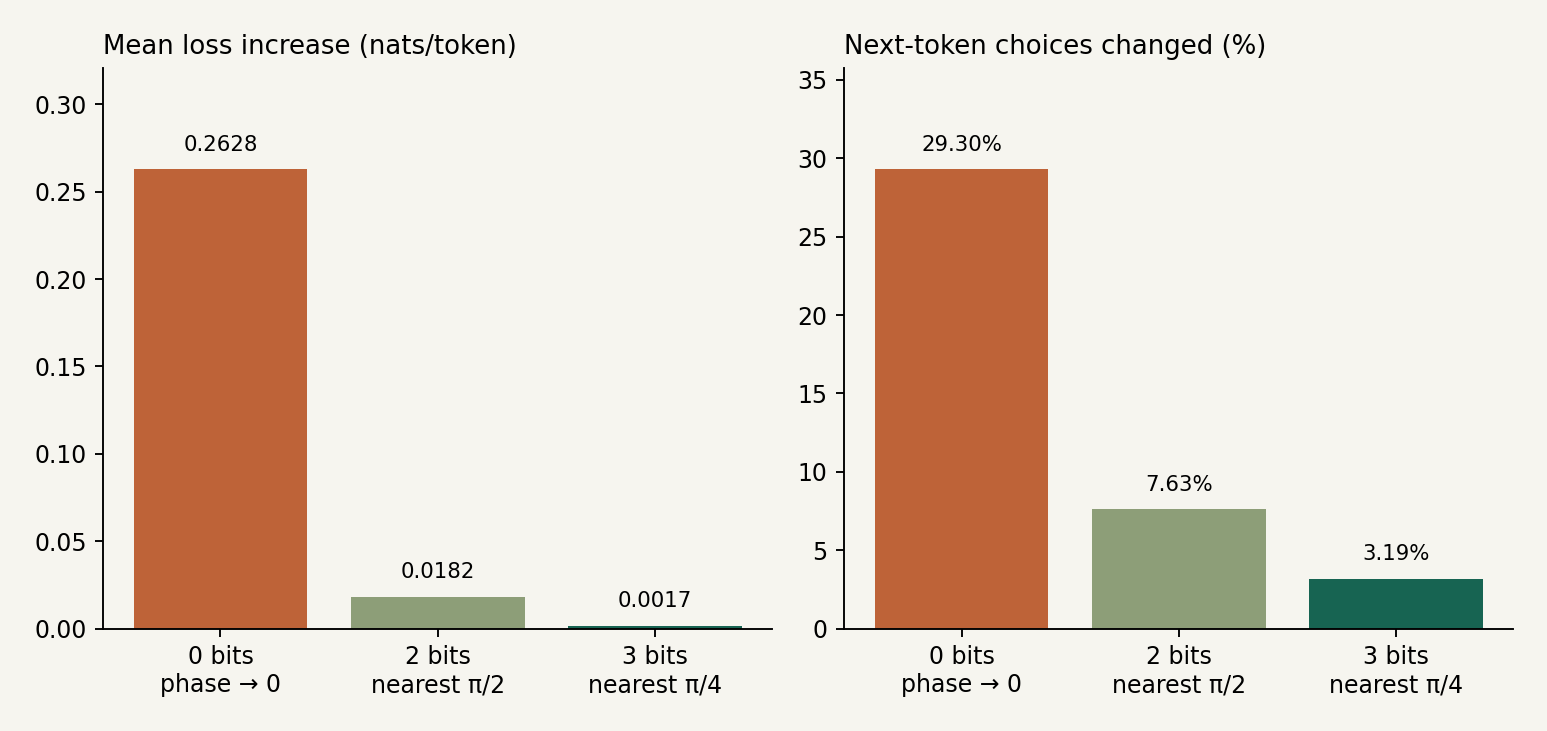
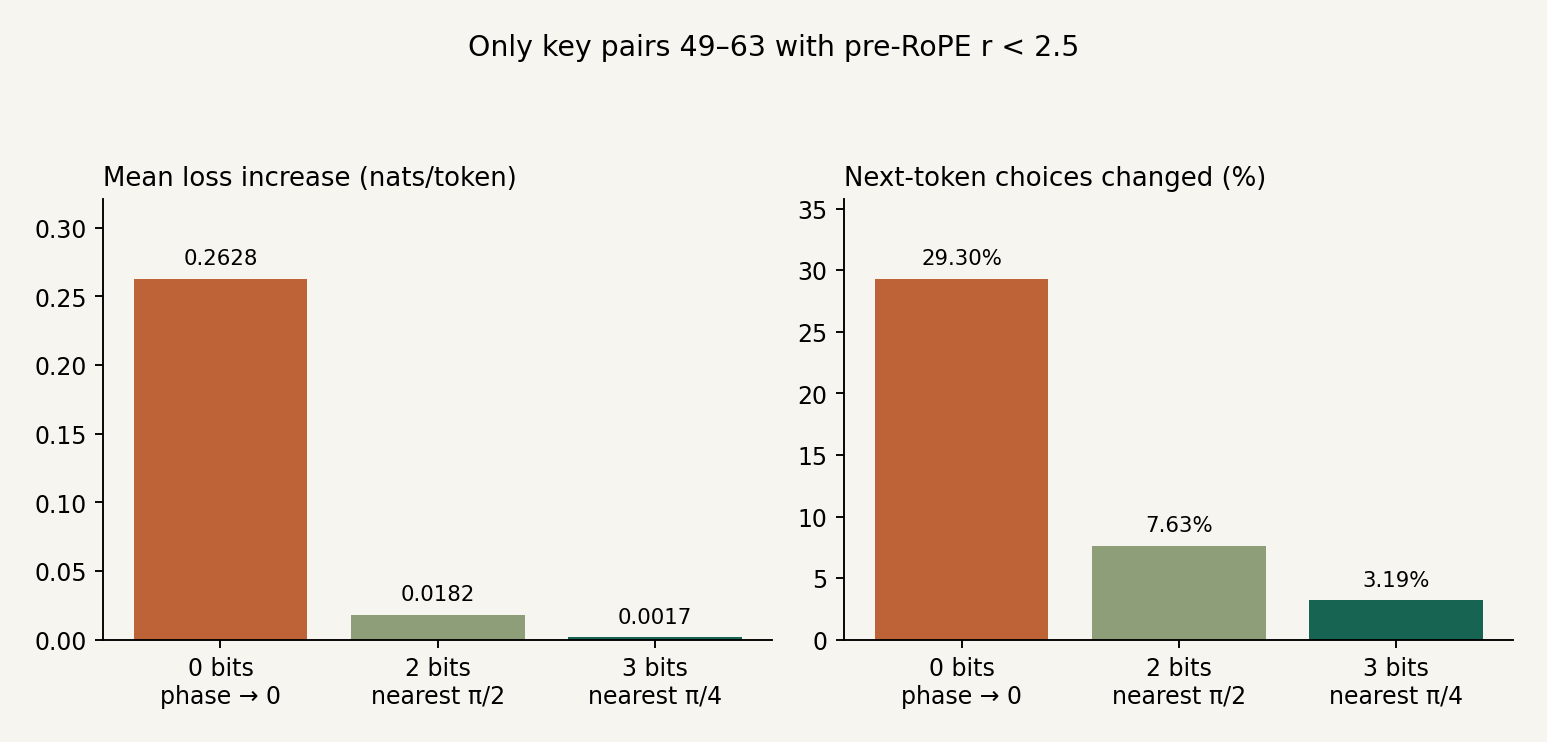
Explain cloud input dependence and emphasize small slow-pair quantization scope

diff --git a/index.html b/index.html
@@ -191,19 +191,19 @@ Return the label for red round.</code></pre>
     <div class="equation"><span class="katex"><math xmlns="http://www.w3.org/1998/Math/MathML" display="block"><semantics><mrow><mi>q</mi><mo stretchy="false">(</mo><mi>h</mi><mo stretchy="false">)</mo><mo>=</mo><msub><mi>W</mi><mi>Q</mi></msub><mi>h</mi><mo>+</mo><msub><mi>b</mi><mi>Q</mi></msub><mo separator="true">,</mo><mspace width="2em"/><msub><mi>q</mi><mi>j</mi></msub><mo stretchy="false">(</mo><mi>h</mi><mo stretchy="false">)</mo><mo>=</mo><msub><mi>u</mi><mi>j</mi></msub><mo stretchy="false">(</mo><mi>h</mi><mo stretchy="false">)</mo><mo>+</mo><msub><mi>b</mi><mrow><mi>Q</mi><mo separator="true">,</mo><mi>j</mi></mrow></msub></mrow><annotation encoding="application/x-tex">q(h)=W_Qh+b_Q,\qquad q_j(h)=u_j(h)+b_{Q,j}</annotation></semantics></math></span></div>
     <p>Here <var>h</var> is the hidden state entering the projection, and <var>j</var> selects one coordinate pair. The bias <var>b</var><sub>Q,j</sub> is the same for every input. If it dominates <var>u</var><sub>j</sub>(<var>h</var>), the observations form a small cloud near that fixed offset. The equivalent key formula uses <var>W</var><sub>K</sub> and <var>b</var><sub>K</sub>.</p>
     <figure><img src="figures/analysis/bias-clouds.png" width="1700" height="850" loading="lazy" alt="A query cloud in L13 H4 pair 52 lies near its learned bias, while L15 H7 pair 63 has a large input-dependent spread and is not explained by its bias alone."><figcaption>Green points are the 768 saved query observations for one pair; orange crosses are the actual learned projection biases. Left: a strongly bias-dominated cloud. Right: a counterexample showing why large r alone does not establish input independence. Both panels preserve equal x/y scales.</figcaption></figure>
-    <p>So I would call the bias <em>input-independent</em>, rather than the whole cloud. The input-dependent term is still there. Even a stable cloud’s center can include the average projected hidden state:</p>
+    <p>The large-offset clouds have different degrees of input dependence. Compact, roughly round clouds tend to vary little around a stable offset; they look largely input-independent on these samples. Stretched clouds show stronger input-dependent variation along a preferred direction, as in the right-hand example. The useful clue is the spread relative to the offset, as well as the shape: roundness alone does not establish input independence. Even a stable cloud’s center can include the average projected hidden state:</p>
     <div class="equation"><span class="katex"><math xmlns="http://www.w3.org/1998/Math/MathML" display="block"><semantics><mrow><mi mathvariant="double-struck">E</mi><mo stretchy="false">[</mo><msub><mi>q</mi><mi>j</mi></msub><mo stretchy="false">]</mo><mo>=</mo><msub><mi>W</mi><mrow><mi>Q</mi><mo separator="true">,</mo><mi>j</mi></mrow></msub><mi mathvariant="double-struck">E</mi><mo stretchy="false">[</mo><mi>h</mi><mo stretchy="false">]</mo><mo>+</mo><msub><mi>b</mi><mrow><mi>Q</mi><mo separator="true">,</mo><mi>j</mi></mrow></msub></mrow><annotation encoding="application/x-tex">\mathbb{E}[q_j]=W_{Q,j}\mathbb{E}[h]+b_{Q,j}</annotation></semantics></math></span></div>
     <details><summary>What did the held-out bias check establish?</summary><p>For query pairs whose mean radius exceeded 5 on eight discovery excerpts, the bias-only predictor accounted for 72.5% of squared magnitude on eight other excerpts, relative to predicting zero. A fitted constant vector accounted for 83.0%. For large-mean key pairs, the bias-only result was 99.86%. These are energy-relative prediction fits, not variance explained around a mean. They support a substantial constant component, especially in the keys; they do not make every large query pair constant. <a href="data/analysis/observations-summary.json">Recomputed statistics</a> · <a href="data/analysis/original-static-summary.json">Original experiment summary</a>.</p></details>
 
     <h2 id="quantization">From a pattern to a quantization experiment</h2>
-    <p>The pictures suggested rounding directions, so I changed the actual key-pair phases and ran the model again. I kept the radii at full precision. The question was whether the model’s predictions survived—not merely whether the rounded cloud looked similar.</p>
+    <p>The pictures suggested rounding directions, so I tested a specific subset: <strong>low-frequency key pairs 49–63, and only token activations whose current pre-RoPE radius was r &lt; 2.5</strong>. These are zero-based pair indices, fifteen of the head’s 64 pairs. All results shown below—including the zero-bit result—use this same band and magnitude rule. I changed the selected phases, kept their radii at full precision, and ran the model again to see whether its predictions survived.</p>
     <p>For a uniform angular codebook with <var>b</var> bits, the rounding rule is:</p>
     <div class="equation"><span class="katex"><math xmlns="http://www.w3.org/1998/Math/MathML" display="block"><semantics><mrow><mover accent="true"><mi>ϕ</mi><mo stretchy="true">^</mo></mover><mo>=</mo><msub><mi mathvariant="normal">Δ</mi><mi>b</mi></msub><mtext> </mtext><mi mathvariant="normal">round</mi><mo></mo><mtext> </mtext><mrow><mo fence="true">(</mo><mfrac><mi>ϕ</mi><msub><mi mathvariant="normal">Δ</mi><mi>b</mi></msub></mfrac><mo fence="true">)</mo></mrow><mo separator="true">,</mo><mspace width="2em"/><msub><mi mathvariant="normal">Δ</mi><mi>b</mi></msub><mo>=</mo><mfrac><mrow><mn>2</mn><mi>π</mi></mrow><msup><mn>2</mn><mi>b</mi></msup></mfrac></mrow><annotation encoding="application/x-tex">\widehat\phi=\Delta_b\,\operatorname{round}\!\left(\frac{\phi}{\Delta_b}\right),\qquad \Delta_b=\frac{2\pi}{2^b}</annotation></semantics></math></span></div>
-    <p>The zero-bit condition is different: every selected phase becomes 0, so the pair becomes (<var>r</var>, 0). That preserves its length; it does not delete the pair.</p>
-    <p>The recorded experiment changed <strong>slow key pairs 49–63 when their current pre-RoPE radius was below 2.5</strong>, through all 28 layers and both shared key heads. Later activations were recomputed. The evaluation covered 7,168 next-token predictions from four previously used book excerpts, each with 2,062 input tokens.</p>
-    <div class="table-scroll"><table><thead><tr><th>Selected phase coding</th><th>Loss increase<br>(nats/token)</th><th>Next-token choices changed</th></tr></thead><tbody><tr><td>0 bits: phase → 0</td><td>+0.26280</td><td>29.30%</td></tr><tr><td>2 bits: nearest π/2</td><td>+0.01824</td><td>7.63%</td></tr><tr><td>3 bits: nearest π/4</td><td>+0.00170</td><td>3.19%</td></tr></tbody></table></div>
-    <figure><img src="figures/analysis/phase-rounding.png" width="1530" height="714" loading="lazy" alt="Recorded phase-rounding results: collapsing small slow key phases to zero changes predictions much more than rounding to four or eight directions."><figcaption>Redrawn from the original counterfactual results, not a new model run. “Changed” means different from the baseline, not necessarily incorrect. Conditions selected about 52–54% of the slow-pair instances; downstream changes affect which later pairs meet the radius threshold.</figcaption></figure>
-    <p>The distinction mattered. Three-bit rounding had a small average loss effect on these excerpts; collapsing every selected direction to one angle did not. The phases could be stored coarsely in this setting, but they were not simply unused. Protecting the first 14 keys gave a similar three-bit result: +0.00124 nats/token and 3.08% changed choices.</p>
+    <p>In the <strong>zero-bit test of those small, low-frequency key activations</strong>, I set the selected phase to 0: (<var>x</var>, <var>y</var>) becomes (<var>r</var>, 0). Pairs outside 49–63 and activations with r ≥ 2.5 were untouched by this edit. The selected pair’s length is preserved, and the normal positional RoPE rotation still follows.</p>
+    <p>I applied this selection through all 28 layers and both shared key heads, at all token positions. The magnitude threshold was applied to the actual key activation, not to the learned bias alone. Later activations were recomputed. The evaluation covered 7,168 next-token predictions from four previously used book excerpts, each with 2,062 input tokens.</p>
+    <div class="table-scroll"><table><caption>Only key pairs 49–63 with current pre-RoPE r &lt; 2.5</caption><thead><tr><th>Selected phase coding</th><th>Loss increase<br>(nats/token)</th><th>Next-token choices changed</th></tr></thead><tbody><tr><td>0 bits: selected phase → 0</td><td>+0.26280</td><td>29.30%</td></tr><tr><td>2 bits: nearest π/2</td><td>+0.01824</td><td>7.63%</td></tr><tr><td>3 bits: nearest π/4</td><td>+0.00170</td><td>3.19%</td></tr></tbody></table></div>
+    <figure><img src="figures/analysis/phase-rounding.png?v=scoped-small-slow-1" width="1530" height="714" loading="lazy" alt="Only key pairs 49–63 with current pre-RoPE radius below 2.5: zero-bit phase coding increases loss by 0.26280 nats per token and changes 29.30 percent of predictions; two- and three-bit rounding have smaller effects."><figcaption>Only the low-frequency, small-radius conditions are shown: <code>zero_small</code>, <code>pi2_small</code>, and <code>pi4_small</code> in the saved results. Redrawn from the original counterfactual runs. “Changed” means different from the baseline, not necessarily incorrect. Conditions selected about 52–54% of the slow-pair instances; downstream changes affect which later pairs meet the radius threshold.</figcaption></figure>
+    <p>The distinction mattered. Three-bit rounding had a small average loss effect on these excerpts; setting phases to zero even within this small-radius, low-frequency subset had a substantial effect. The phases could be stored coarsely in this setting, but they were not simply unused. Protecting the first 14 keys gave a similar three-bit result: +0.00124 nats/token and 3.08% changed choices.</p>
     <p>This was a phase intervention, not yet a complete compressed cache. The radii still needed storage, as did any selection flags or codebooks, and no packed-cache speedup was measured. These four excerpts were already part of the investigation, so the numbers do not establish safety on new tasks or long-distance retrieval. Changing only a learned bias is also a different experiment from rounding a token’s full key vector.</p>
     <p>I then found that the polar-coordinate approach had already been published. <a href="https://arxiv.org/abs/2502.00527">Wu and colleagues’ <em>PolarQuant</em> (NeurIPS 2025)</a> encodes RoPE-paired key coordinates as quantized radii and angles and implements lookup-based decoding. That is closely related to the representation explored here. Their post-RoPE cache codec, radius coding, benchmarks, and kernels differ from this selective pre-RoPE phase-rounding test, so the bit counts and results are not interchangeable.</p>
     <details><summary>A similarly named paper, and the reproducible experiment</summary><p><a href="https://arxiv.org/abs/2502.02617">Han and colleagues’ <em>PolarQuant</em></a> is a distinct method using random preconditioning and a recursive polar transform. The paper closest to direct RoPE-pair radius/angle coding is the Wu et al. paper above.</p><p><a href="data/analysis/slow-phase-results.json">All recorded results, per-excerpt losses, and intervention checks</a> · <a href="code/run_phase_quantization.py">Runnable model experiment</a> · <a href="code/phase_quantization.py">Pair-rounding implementation</a>. The runner needs PyTorch, Transformers, and Qwen weights; the article figures can be regenerated from the posted results without model inference.</p></details>

diff --git a/code/observations.py b/code/observations.py
@@ -89,7 +89,8 @@ def main():
  for ax,field,factor,title in [(axs[0],'loss_increase',1,'Mean loss increase (nats/token)'),(axs[1],'changed_prediction_fraction',100,'Next-token choices changed (%)')]:
   vals=[results[n][field]*factor for n in names];ax.bar(range(3),vals,color=['#be6338','#8d9e78',GREEN]);ax.set_xticks(range(3),['0 bits\nphase → 0','2 bits\nnearest π/2','3 bits\nnearest π/4']);ax.set_title(title,loc='left',fontsize=11);ax.set_ylim(0,max(vals)*1.22)
   for i,v in enumerate(vals):ax.text(i,v+max(vals)*.04,f'{v:.4f}' if field=='loss_increase' else f'{v:.2f}%',ha='center',fontsize=9)
- fig.tight_layout();save(fig,'phase-rounding.png')
+ fig.suptitle('Only key pairs 49–63 with pre-RoPE r < 2.5',fontsize=12)
+ fig.tight_layout(rect=[0,0,1,.91]);save(fig,'phase-rounding.png')
  (A/'observations-summary.json').write_text(json.dumps(stats,indent=2)+'\n')
  print(json.dumps(stats,indent=2))
 
